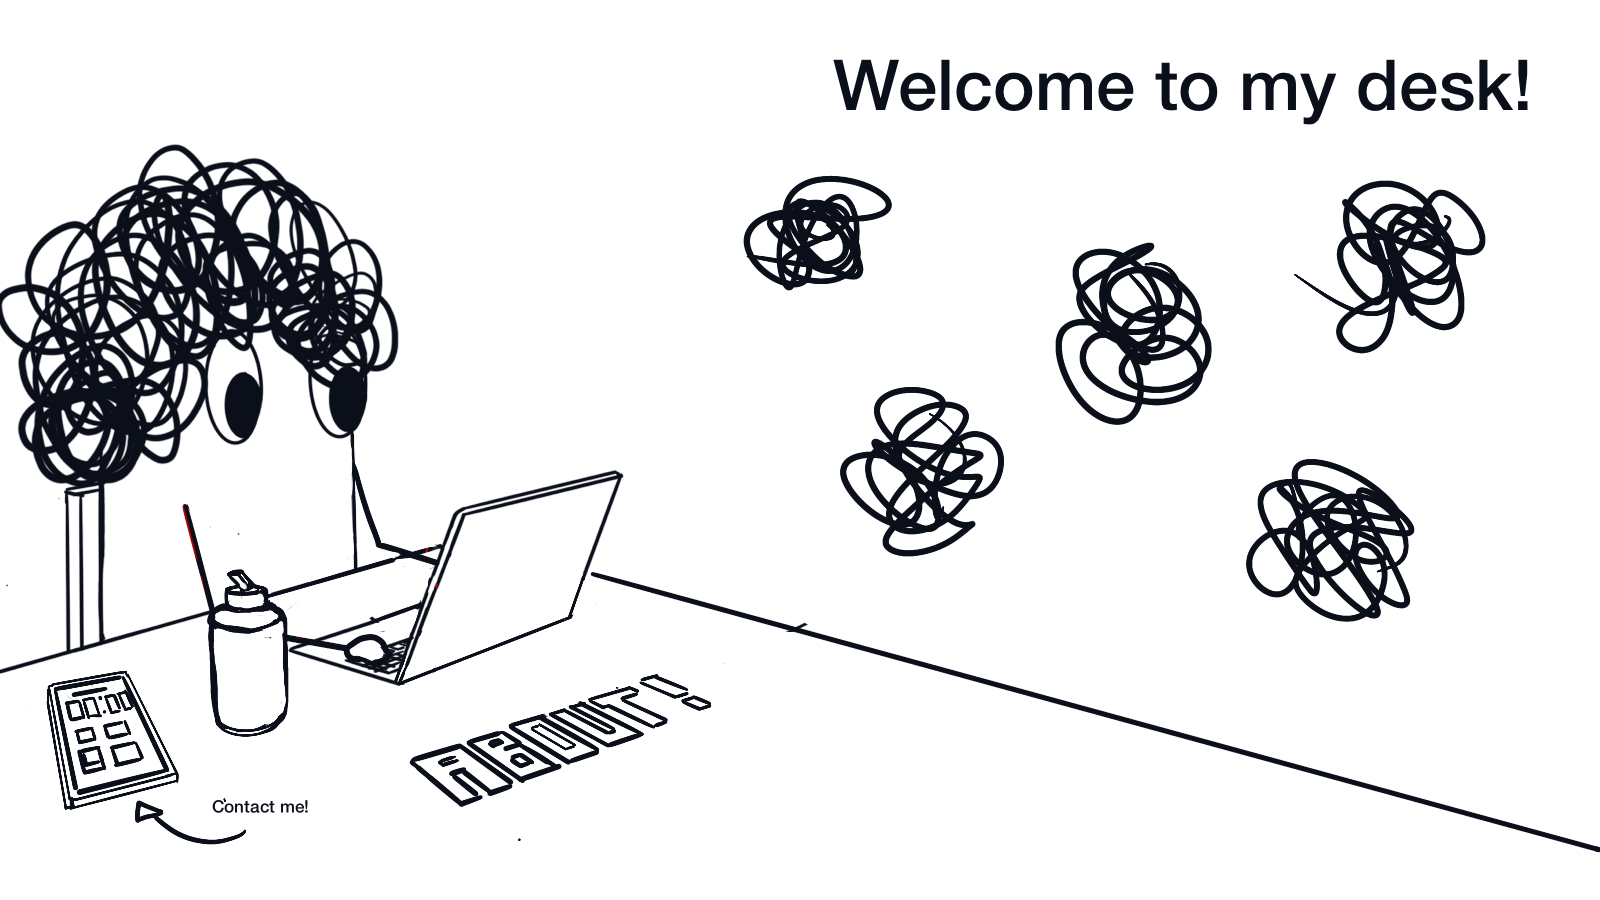
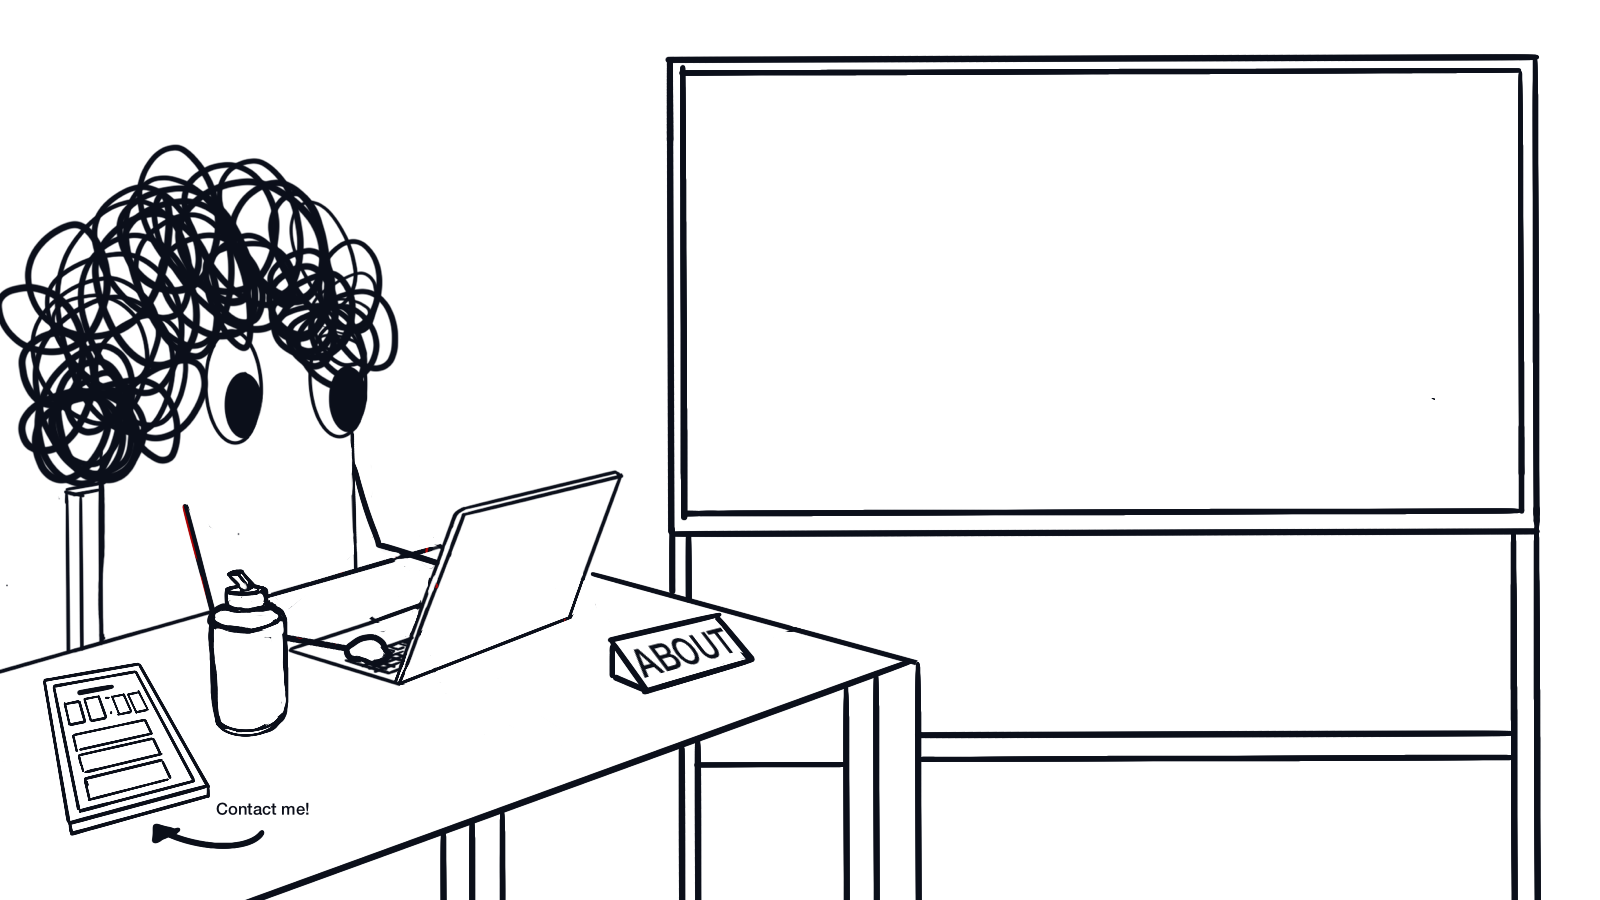
Switch to the whiteboard desk scene with a three-slot phone
- Replace the seven animation frames with the new set
- Phone screen mapped onto the drawing with a perspective transform;
  shows the live clock plus LinkedIn / GitHub / email slots
- Static copy of the phone area layered over every frame so the phone
  doesn't shift on frames 5-6 (where it was drawn slightly moved)
- About hotspot moved to the tent card; squiggle hotspots and the old
  ABOUT overlay removed
- LinkedIn slot shows "Coming soon" until the profile URL is provided

diff --git a/index.html b/index.html
@@ -26,33 +26,23 @@
         <img class="frame" src="images/frames/frame-07.png" alt="" />
       </div>
 
-      <!-- Squiggles on the wall (coming soon -> will link to project pages) -->
-      <button class="hotspot squiggle" style="--x:740; --y:172; --w:160; --h:130" data-name="Project 1" aria-label="Project 1 (coming soon)"></button>
-      <button class="hotspot squiggle" style="--x:1050; --y:238; --w:175; --h:190" data-name="Project 2" aria-label="Project 2 (coming soon)"></button>
-      <button class="hotspot squiggle" style="--x:1285; --y:170; --w:205; --h:180" data-name="Project 3" aria-label="Project 3 (coming soon)"></button>
-      <button class="hotspot squiggle" style="--x:835; --y:380; --w:175; --h:180" data-name="Project 4" aria-label="Project 4 (coming soon)"></button>
-      <button class="hotspot squiggle" style="--x:1240; --y:455; --w:185; --h:160" data-name="Project 5" aria-label="Project 5 (coming soon)"></button>
+      <!-- Phone + "Contact me!" from frame 1, shown on every frame so the phone
+           (and the clock/buttons on it) never shift between frames -->
+      <img class="phone-static" src="images/phone-static.png" alt="" />
 
-      <!-- "ABOUT!" lettering on the desk (drawn on every frame) -->
-      <img class="about-art" src="images/about.png" alt="" />
-      <a class="hotspot about" href="about.html" style="--x:410; --y:668; --w:300; --h:135" aria-label="About"></a>
+      <!-- "ABOUT" tent card on the desk -->
+      <a class="hotspot about" href="about.html" style="--x:598; --y:618; --w:165; --h:80" aria-label="About"></a>
 
       <!-- Phone screen overlay (skewed to match the drawn phone) -->
       <div class="phone-screen">
         <div class="clock" id="clock" aria-live="off">00:00</div>
         <div class="phone-apps">
-          <a class="app" href="mailto:emma.gelman@icloud.com" aria-label="Email Emma">
-            <svg viewBox="0 0 24 24" aria-hidden="true"><rect x="3" y="5" width="18" height="14" rx="2"/><path d="M3 7l9 6 9-6"/></svg>
-          </a>
-          <a class="app" href="https://github.com/emmagelman-alt" target="_blank" rel="noopener noreferrer" aria-label="GitHub">
-            <svg viewBox="0 0 24 24" aria-hidden="true" class="filled"><path d="M12 .297c-6.63 0-12 5.373-12 12 0 5.303 3.438 9.8 8.205 11.385.6.113.82-.258.82-.577 0-.285-.01-1.04-.015-2.04-3.338.724-4.042-1.61-4.042-1.61C4.422 18.07 3.633 17.7 3.633 17.7c-1.087-.744.084-.729.084-.729 1.205.084 1.838 1.236 1.838 1.236 1.07 1.835 2.809 1.305 3.495.998.108-.776.417-1.305.76-1.605-2.665-.3-5.466-1.332-5.466-5.93 0-1.31.465-2.38 1.235-3.22-.135-.303-.54-1.523.105-3.176 0 0 1.005-.322 3.3 1.23.96-.267 1.98-.399 3-.405 1.02.006 2.04.138 3 .405 2.28-1.552 3.285-1.23 3.285-1.23.645 1.653.24 2.873.12 3.176.765.84 1.23 1.91 1.23 3.22 0 4.61-2.805 5.625-5.475 5.92.42.36.81 1.096.81 2.22 0 1.606-.015 2.896-.015 3.286 0 .315.21.69.825.57C20.565 22.092 24 17.592 24 12.297c0-6.627-5.373-12-12-12"/></svg>
-          </a>
-          <button class="app pending" data-name="LinkedIn" aria-label="LinkedIn (coming soon)">
-            <svg viewBox="0 0 24 24" aria-hidden="true" class="filled"><path d="M20.447 20.452h-3.554v-5.569c0-1.328-.027-3.037-1.852-3.037-1.853 0-2.136 1.445-2.136 2.939v5.667H9.351V9h3.414v1.561h.046c.477-.9 1.637-1.85 3.37-1.85 3.601 0 4.267 2.37 4.267 5.455v6.286zM5.337 7.433c-1.144 0-2.063-.926-2.063-2.065 0-1.138.92-2.063 2.063-2.063 1.14 0 2.064.925 2.064 2.063 0 1.139-.925 2.065-2.064 2.065zm1.782 13.019H3.555V9h3.564v11.452zM22.225 0H1.771C.792 0 0 .774 0 1.729v20.542C0 23.227.792 24 1.771 24h20.451C23.2 24 24 23.227 24 22.271V1.729C24 .774 23.2 0 22.222 0h.003z"/></svg>
-          </button>
-          <button class="app pending" data-name="Instagram" aria-label="Instagram (coming soon)">
-            <svg viewBox="0 0 24 24" aria-hidden="true"><rect x="3" y="3" width="18" height="18" rx="5"/><circle cx="12" cy="12" r="4"/><circle cx="17.5" cy="6.5" r="0.6" fill="currentColor"/></svg>
-          </button>
+          <!-- LinkedIn: swap this <button> for
+               <a class="app" href="https://www.linkedin.com/in/..." target="_blank" rel="noopener noreferrer">LinkedIn</a>
+               once the profile URL is known -->
+          <button class="app pending" data-name="LinkedIn" aria-label="LinkedIn (coming soon)">LinkedIn</button>
+          <a class="app" href="https://github.com/emmagelman-alt" target="_blank" rel="noopener noreferrer">GitHub</a>
+          <a class="app" href="mailto:emma.gelman@icloud.com">email</a>
         </div>
       </div>
 

diff --git a/css/style.css b/css/style.css
@@ -59,13 +59,13 @@ html, body {
 
 .frame.is-active { opacity: 1; }
 
-/* "ABOUT!" lettering, cropped from the drawing and shown on every frame */
-.about-art {
+/* Static copy of the phone area (from frame 1) layered over every frame */
+.phone-static {
   position: absolute;
-  left: 405px;
-  top: 660px;
-  width: 315px;
-  height: 155px;
+  left: 30px;
+  top: 640px;
+  width: 310px;
+  height: 210px;
   pointer-events: none;
   user-select: none;
 }
@@ -97,36 +97,28 @@ html, body {
 
 /* ------------------------------------------------------------------
    Phone screen
-   A rectangle mapped onto the drawn phone's screen with an affine
-   transform. Tweak the four numbers below to nudge it into place:
-   --ps-x/--ps-y = top-left corner, --ps-w/--ps-h = size,
-   --ps-skew-x / --ps-skew-y = how much the drawing leans.
+   A 100x150 box that JS maps onto the drawn screen's four corners with
+   a perspective transform (see PHONE_SCREEN in js/script.js). Its white
+   background covers the drawn "00:00" and boxes; the clock and buttons
+   are laid out here in plain 2D and get the drawing's perspective.
 ------------------------------------------------------------------- */
 .phone-screen {
-  --ps-x: 58;
-  --ps-y: 693;
-  --ps-w: 73;
-  --ps-h: 98;
-  --ps-skew-y: -0.096;   /* top edge rises to the right */
-  --ps-skew-x: 0.231;    /* left edge leans right going down */
-
   position: absolute;
   left: 0;
   top: 0;
-  width: calc(var(--ps-w) * 1px);
-  height: calc(var(--ps-h) * 1px);
+  width: 100px;
+  height: 150px;
   transform-origin: 0 0;
-  transform: matrix(1, var(--ps-skew-y), var(--ps-skew-x), 1, var(--ps-x), var(--ps-y));
   background: var(--paper);
   display: flex;
   flex-direction: column;
   align-items: center;
-  padding: 4px 4px 0;
-  gap: 5px;
+  padding: 6px 8px 0;
+  gap: 7px;
 }
 
 .clock {
-  font-size: 13px;
+  font-size: 15px;
   font-weight: 600;
   letter-spacing: 0.02em;
   line-height: 1;
@@ -135,9 +127,9 @@ html, body {
 }
 
 .phone-apps {
-  display: grid;
-  grid-template-columns: repeat(2, 1fr);
-  gap: 5px;
+  display: flex;
+  flex-direction: column;
+  gap: 6px;
   width: 100%;
 }
 
@@ -145,13 +137,14 @@ html, body {
   display: flex;
   align-items: center;
   justify-content: center;
-  aspect-ratio: 1;
+  height: 27px;
   padding: 0;
   margin: 0;
   border: 2px solid var(--ink);
-  border-radius: 5px;
+  border-radius: 4px;
   background: var(--paper);
   color: var(--ink);
+  font: 600 11px/1 var(--font);
   cursor: pointer;
   text-decoration: none;
   transition: transform 120ms ease, background 120ms ease;
@@ -160,24 +153,9 @@ html, body {
 
 .app:hover,
 .app:focus-visible {
-  transform: scale(1.08);
+  transform: scale(1.05);
   background: #f2f2f6;
   outline: none;
-}
-
-.app svg {
-  width: 62%;
-  height: 62%;
-  fill: none;
-  stroke: currentColor;
-  stroke-width: 2;
-  stroke-linecap: round;
-  stroke-linejoin: round;
-}
-
-.app svg.filled {
-  fill: currentColor;
-  stroke: none;
 }
 
 /* ------------------------------------------------------------------

diff --git a/js/script.js b/js/script.js
@@ -53,6 +53,59 @@
   });
 
   /* ---------------------------------------------------------------
+     Phone screen: map the 100x150 .phone-screen box onto the drawn
+     screen's four corners (scene px, clockwise from top-left).
+     Nudge these numbers if the overlay drifts off the drawing.
+  ---------------------------------------------------------------- */
+  var PHONE_SCREEN = [[58, 686], [137, 675], [192, 782], [80, 807]];
+
+  function solve(A, b) {
+    // Gaussian elimination with partial pivoting (A is n x n, b is n)
+    var n = b.length, i, j, k;
+    for (i = 0; i < n; i++) {
+      var p = i;
+      for (j = i + 1; j < n; j++) if (Math.abs(A[j][i]) > Math.abs(A[p][i])) p = j;
+      var t = A[i]; A[i] = A[p]; A[p] = t;
+      t = b[i]; b[i] = b[p]; b[p] = t;
+      for (j = i + 1; j < n; j++) {
+        var f = A[j][i] / A[i][i];
+        for (k = i; k < n; k++) A[j][k] -= f * A[i][k];
+        b[j] -= f * b[i];
+      }
+    }
+    var x = new Array(n);
+    for (i = n - 1; i >= 0; i--) {
+      var s = b[i];
+      for (j = i + 1; j < n; j++) s -= A[i][j] * x[j];
+      x[i] = s / A[i][i];
+    }
+    return x;
+  }
+
+  function perspective(w, h, q) {
+    // Homography sending (0,0),(w,0),(w,h),(0,h) to the four points in q
+    var src = [[0, 0], [w, 0], [w, h], [0, h]];
+    var A = [], b = [];
+    for (var i = 0; i < 4; i++) {
+      var x = src[i][0], y = src[i][1], X = q[i][0], Y = q[i][1];
+      A.push([x, y, 1, 0, 0, 0, -X * x, -X * y]); b.push(X);
+      A.push([0, 0, 0, x, y, 1, -Y * x, -Y * y]); b.push(Y);
+    }
+    var v = solve(A, b); // a b c d e f g h
+    return "matrix3d(" + [
+      v[0], v[3], 0, v[6],
+      v[1], v[4], 0, v[7],
+      0, 0, 1, 0,
+      v[2], v[5], 0, 1
+    ].join(",") + ")";
+  }
+
+  var phone = document.querySelector(".phone-screen");
+  if (phone) {
+    phone.style.transform = perspective(phone.offsetWidth, phone.offsetHeight, PHONE_SCREEN);
+  }
+
+  /* ---------------------------------------------------------------
      Live clock (user's local time, 12-hour)
   ---------------------------------------------------------------- */
   function tick() {
